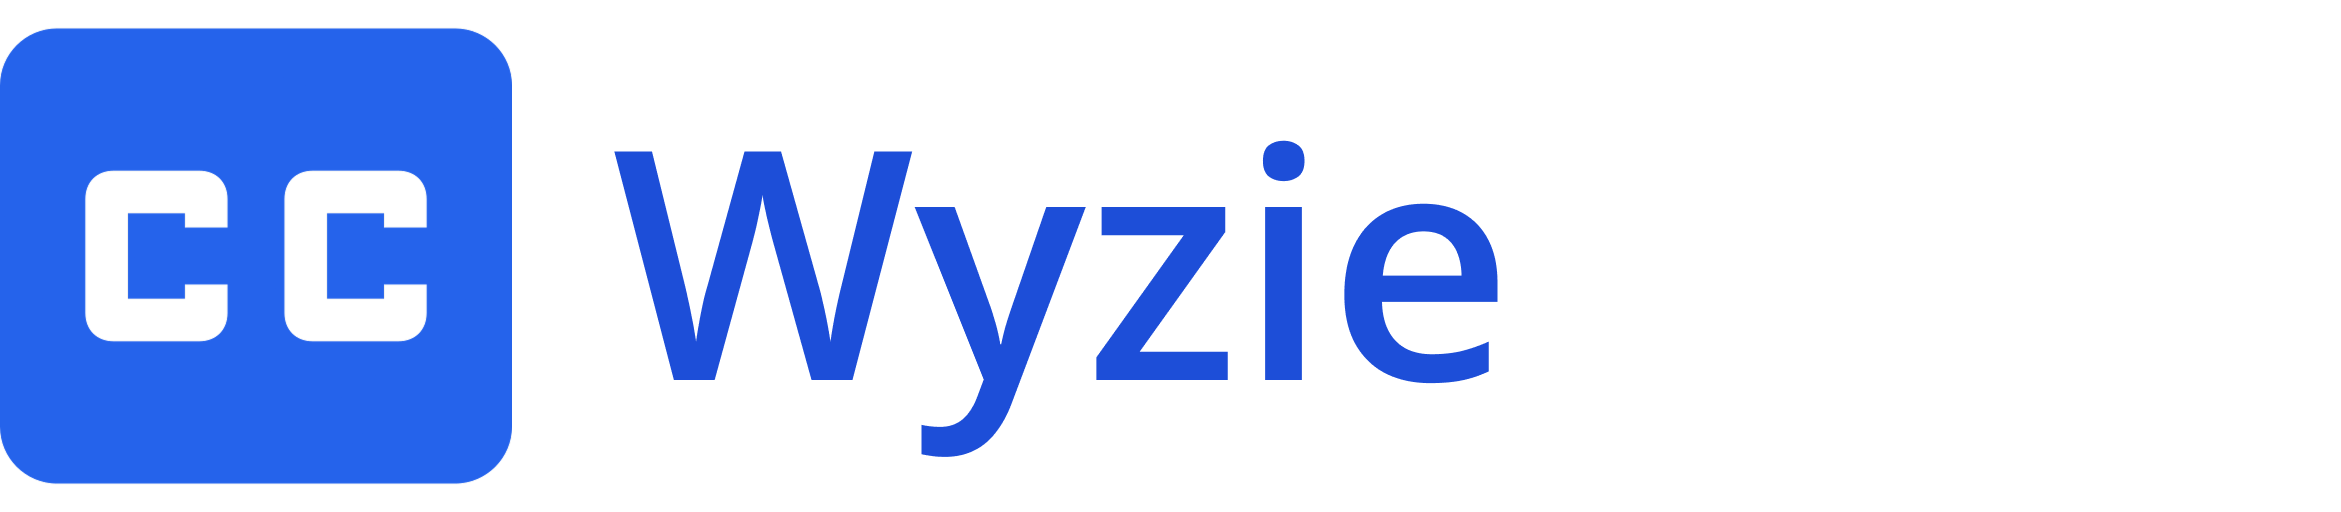
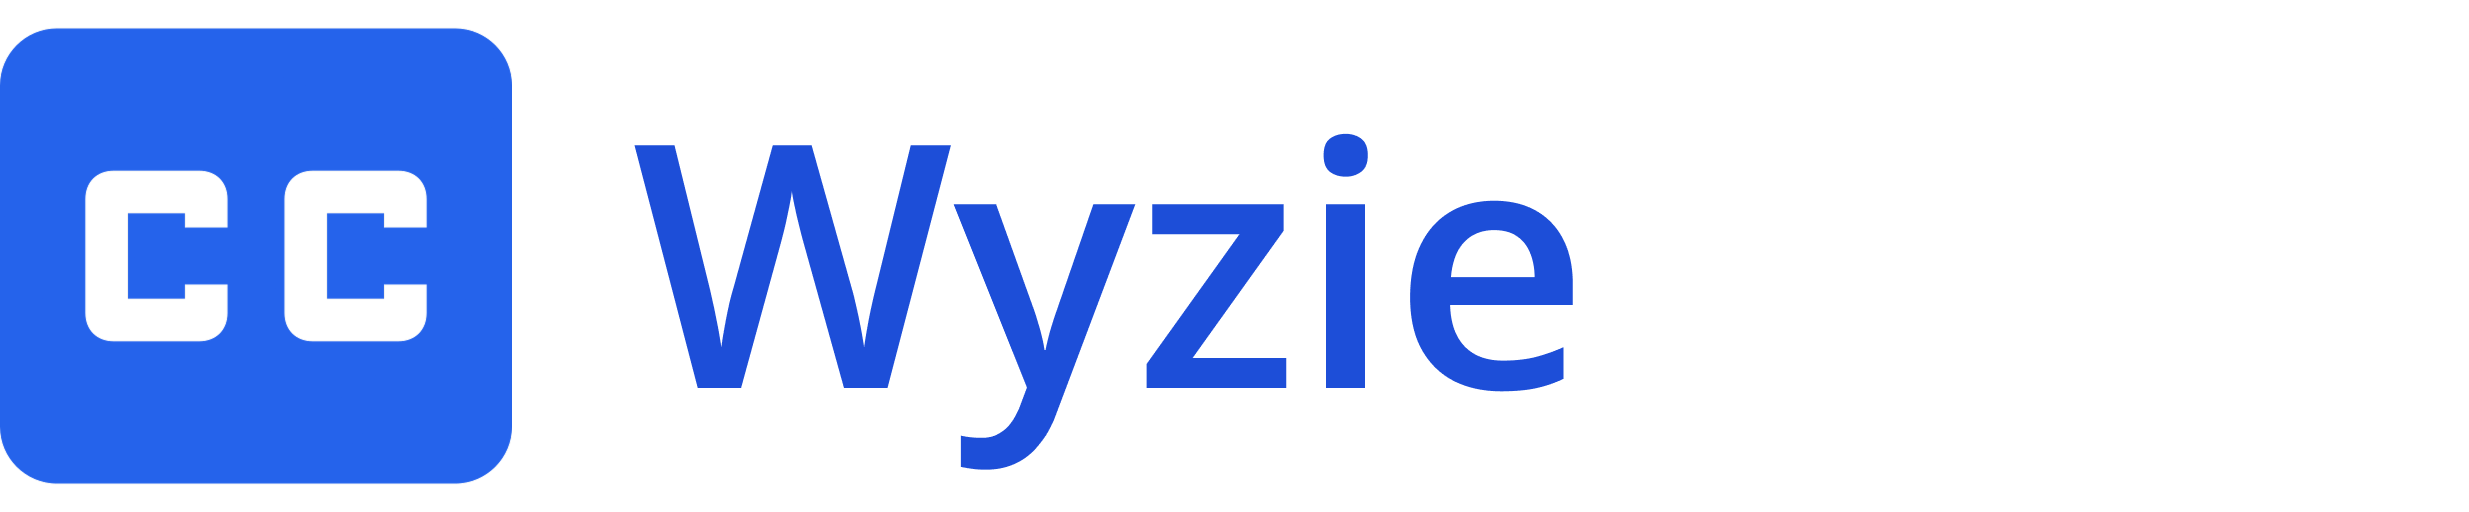
Do some pages

Changed region(s): [[0.2495, 0.25, 0.6548, 0.9375], [0.0312, 0.0625, 0.2183, 0.9375], [0.5925, 0.375, 0.6237, 0.4062]]

diff --git a/theme.config.tsx b/theme.config.tsx
@@ -26,13 +26,13 @@ export default defineTheme({
   meta: (pageMeta) => (
     <NextSeo {...{
       title: `${pageMeta.title ?? "Free, Open-Source API"} | Wyzie Docs`,
-      description: pageMeta.description ?? "The offical documentation for the Wyzie toolset.",
+      description: pageMeta.description ?? "The official documentation for the Wyzie toolset.",
       openGraph: {
         images: [{
           url: transparentLogo.src,
         }],
         title: `${pageMeta.title ?? "Free, Open-Source API"} | Wyzie Docs`,
-        description: pageMeta.description ?? "The offical documentation for the Wyzie toolset.",
+        description: pageMeta.description ?? "The official documentation for the Wyzie toolset.",
       },
       twitter: {
         cardType: 'summary',
@@ -55,7 +55,7 @@ export default defineTheme({
       "background": "#0b0b0b",
       "backgroundLighter": "#111",
       "backgroundLightest": "#181818",
-      "backgroundDarker": "#000000",
+      "backgroundDarker": "#070707",
       "line": "#333",
       "text": "#c0c0c0",
       "textLighter": "#d0d0d0",

diff --git a/pages/index.tsx b/pages/index.tsx
@@ -33,7 +33,7 @@ export default function LandingPage() {
             We pride ourselves on our consistent uptime and (almost) daily
             updates as well as fast caching.
           </Card>
-          <Card icon="mdi:beach" title="Simplcity Redefined">
+          <Card icon="mdi:beach" title="Simplicity Redefined">
             Easy to implement, easy to use. Wyzie is designed to be as simple as
             possible.
           </Card>

diff --git a/components/Logo.module.css b/components/Logo.module.css
@@ -6,7 +6,7 @@
 }
 
 .logo > img {
-  height: 1.8rem;
+  height: 1.65rem;
 }
 
 .logo:hover {
